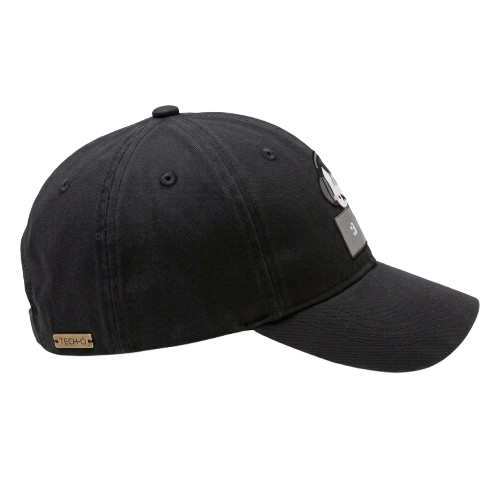
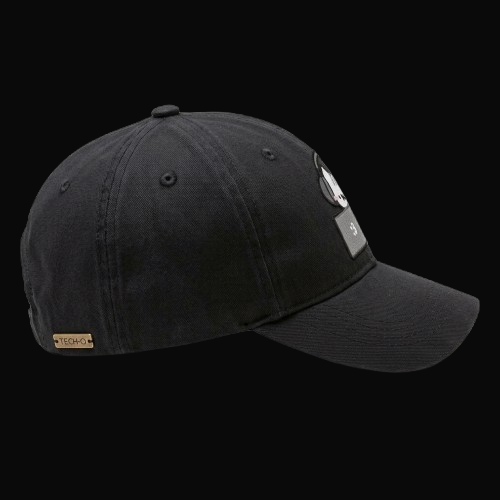
fix(storefront): flatten chapter 02 stills onto ink
Bake Giro stills to opaque #0a0a0a so chapter 02 cannot show a transparency grid. Packshots and Transición video stay solid white.

diff --git a/store/apps/storefront/src/modules/home/components/editorial/scroll-sequence.tsx b/store/apps/storefront/src/modules/home/components/editorial/scroll-sequence.tsx
@@ -119,14 +119,16 @@ const SequenceStage = ({
   }
 
   return (
-    <EditorialMedia
-      src={frame.src}
-      fallback={frame.fallback || frame.src}
-      alt={frame.alt}
-      objectFit="contain"
-      sizes="100vw"
-      priority={priority}
-    />
+    <div className="absolute inset-0 bg-ink-950">
+      <EditorialMedia
+        src={frame.src}
+        fallback={frame.fallback || frame.src}
+        alt={frame.alt}
+        objectFit="contain"
+        sizes="100vw"
+        priority={priority}
+      />
+    </div>
   )
 }
 
@@ -189,7 +191,7 @@ const ScrollSequence = () => {
               key={`${item.kind}-${item.src}`}
               className="grid border-t border-white/10 small:grid-cols-2"
             >
-              <div className="relative min-h-[70vh] bg-ink-950">
+              <div className="relative min-h-[70vh] overflow-hidden bg-ink-950">
                 {item.kind === "video" ? (
                   <EditorialVideo
                     src={item.src}
